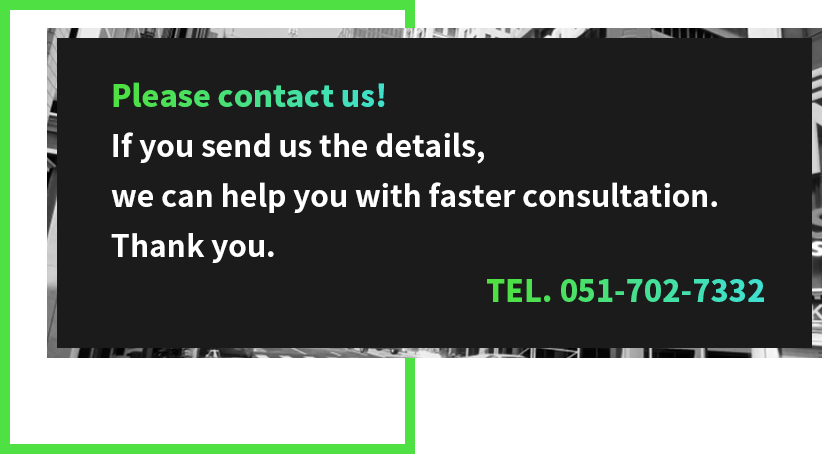
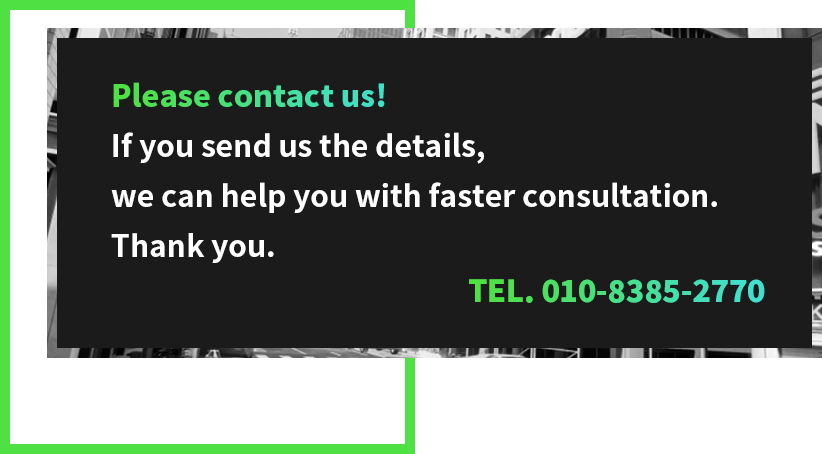
META-VC 2023-07-14 02:51

Changed region(s): [[0.5779, 0.6167, 0.9428, 0.6784]]

diff --git a/sub/sub1/sub1_AboutUs.html b/sub/sub1/sub1_AboutUs.html
@@ -79,21 +79,21 @@
 
     <footer>
         <div class="footer_cont inner">
-            <div class="logo"><a href="../../index.html"><img src="images/logo.png" alt="logo"></a></div>
-            <div class="footer_text">
-                <div>부산광역시 금정구 오륜대로 57 부산가톨릭대학교 C004 메타VC</div>
-                <div class="footer_adress">
-                    <div>TEL 051.702.7332</div>
-                    <div>FAX 051.702.7338</div>
-                    <div>mvc@metavc.kr</div>
-                </div>
+          <div class="logo"><a href="#"><img src="images/logo.png" alt="logo"></a></div>
+          <div class="footer_text">
+            <div>부산광역시 북구 덕천로 194 럭키아파트 7동 301호</div>
+            <div class="footer_adress">
+              <div>TEL｜010.8385.2770</div>
+              <div>KAKAO｜codms0654</div>
+              <div>yeomce2770@gmail.com</div>
             </div>
-            <div class="kakao"><a href="http://pf.kakao.com/_SEvgb" target="_blank"><img src="images/kakao.png"
-                        alt="logo"></a></div>
-            <button><a href="#">Mobile</a></button>
+          </div>
+          <div class="kakao"><a href="http://pf.kakao.com/_pLtzG/chat" target="_blank"><img src="images/kakao.png"
+                alt="logo"></a></div>
+          <button class="mobile-button"><a href="https://yce-meta-vc-mobile.netlify.app/" target="_blank">Mobile</a></button>
         </div>
         <div class="copy_right">Copyright (c) MetaVC CO.LTD All rights reserved.</div>
-    </footer>
+      </footer>
 </body>
 
 </html>

diff --git a/sub/sub2/sub2_Technology.html b/sub/sub2/sub2_Technology.html
@@ -84,21 +84,21 @@
 
     <footer>
         <div class="footer_cont inner">
-            <div class="logo"><a href="../../index.html"><img src="images/logo.png" alt="logo"></a></div>
-            <div class="footer_text">
-                <div>부산광역시 금정구 오륜대로 57 부산가톨릭대학교 C004 메타VC</div>
-                <div class="footer_adress">
-                    <div>TEL 051.702.7332</div>
-                    <div>FAX 051.702.7338</div>
-                    <div>mvc@metavc.kr</div>
-                </div>
+          <div class="logo"><a href="#"><img src="images/logo.png" alt="logo"></a></div>
+          <div class="footer_text">
+            <div>부산광역시 북구 덕천로 194 럭키아파트 7동 301호</div>
+            <div class="footer_adress">
+              <div>TEL｜010.8385.2770</div>
+              <div>KAKAO｜codms0654</div>
+              <div>yeomce2770@gmail.com</div>
             </div>
-            <div class="kakao"><a href="http://pf.kakao.com/_SEvgb" target="_blank"><img src="images/kakao.png"
-                        alt="logo"></a></div>
-            <button><a href="#">Mobile</a></button>
+          </div>
+          <div class="kakao"><a href="http://pf.kakao.com/_pLtzG/chat" target="_blank"><img src="images/kakao.png"
+                alt="logo"></a></div>
+          <button class="mobile-button"><a href="https://yce-meta-vc-mobile.netlify.app/" target="_blank">Mobile</a></button>
         </div>
         <div class="copy_right">Copyright (c) MetaVC CO.LTD All rights reserved.</div>
-    </footer>
+      </footer>
 </body>
 
 </html>

diff --git a/sub/sub3/sub3_Work.html b/sub/sub3/sub3_Work.html
@@ -79,21 +79,21 @@
 
     <footer>
         <div class="footer_cont inner">
-            <div class="logo"><a href="../../index.html"><img src="images/logo.png" alt="logo"></a></div>
-            <div class="footer_text">
-                <div>부산광역시 금정구 오륜대로 57 부산가톨릭대학교 C004 메타VC</div>
-                <div class="footer_adress">
-                    <div>TEL 051.702.7332</div>
-                    <div>FAX 051.702.7338</div>
-                    <div>mvc@metavc.kr</div>
-                </div>
+          <div class="logo"><a href="#"><img src="images/logo.png" alt="logo"></a></div>
+          <div class="footer_text">
+            <div>부산광역시 북구 덕천로 194 럭키아파트 7동 301호</div>
+            <div class="footer_adress">
+              <div>TEL｜010.8385.2770</div>
+              <div>KAKAO｜codms0654</div>
+              <div>yeomce2770@gmail.com</div>
             </div>
-            <div class="kakao"><a href="http://pf.kakao.com/_SEvgb" target="_blank"><img src="images/kakao.png"
-                        alt="logo"></a></div>
-            <button><a href="#">Mobile</a></button>
+          </div>
+          <div class="kakao"><a href="http://pf.kakao.com/_pLtzG/chat" target="_blank"><img src="images/kakao.png"
+                alt="logo"></a></div>
+          <button class="mobile-button"><a href="https://yce-meta-vc-mobile.netlify.app/" target="_blank">Mobile</a></button>
         </div>
         <div class="copy_right">Copyright (c) MetaVC CO.LTD All rights reserved.</div>
-    </footer>
+      </footer>
 </body>
 
 </html>

diff --git a/sub/sub4/sub4_LetsTalk.html b/sub/sub4/sub4_LetsTalk.html
@@ -71,21 +71,21 @@
 
     <footer>
         <div class="footer_cont inner">
-            <div class="logo"><a href="../../index.html"><img src="images/logo.png" alt="logo"></a></div>
-            <div class="footer_text">
-                <div>부산광역시 금정구 오륜대로 57 부산가톨릭대학교 C004 메타VC</div>
-                <div class="footer_adress">
-                    <div>TEL 051.702.7332</div>
-                    <div>FAX 051.702.7338</div>
-                    <div>mvc@metavc.kr</div>
-                </div>
+          <div class="logo"><a href="#"><img src="images/logo.png" alt="logo"></a></div>
+          <div class="footer_text">
+            <div>부산광역시 북구 덕천로 194 럭키아파트 7동 301호</div>
+            <div class="footer_adress">
+              <div>TEL｜010.8385.2770</div>
+              <div>KAKAO｜codms0654</div>
+              <div>yeomce2770@gmail.com</div>
             </div>
-            <div class="kakao"><a href="http://pf.kakao.com/_SEvgb" target="_blank"><img src="images/kakao.png"
-                        alt="logo"></a></div>
-            <button><a href="#">Mobile</a></button>
+          </div>
+          <div class="kakao"><a href="http://pf.kakao.com/_pLtzG/chat" target="_blank"><img src="images/kakao.png"
+                alt="logo"></a></div>
+          <button class="mobile-button"><a href="https://yce-meta-vc-mobile.netlify.app/" target="_blank">Mobile</a></button>
         </div>
         <div class="copy_right">Copyright (c) MetaVC CO.LTD All rights reserved.</div>
-    </footer>
+      </footer>
 </body>
 
 </html>

diff --git a/index.html b/index.html
@@ -181,16 +181,16 @@
     <div class="footer_cont inner">
       <div class="logo"><a href="#"><img src="images/logo.png" alt="logo"></a></div>
       <div class="footer_text">
-        <div>부산광역시 금정구 오륜대로 57 부산가톨릭대학교 C004 메타VC</div>
+        <div>부산광역시 북구 덕천로 194 럭키아파트 7동 301호</div>
         <div class="footer_adress">
-          <div>TEL 051.702.7332</div>
-          <div>FAX 051.702.7338</div>
-          <div>mvc@metavc.kr</div>
+          <div>TEL｜010.8385.2770</div>
+          <div>KAKAO｜codms0654</div>
+          <div>yeomce2770@gmail.com</div>
         </div>
       </div>
-      <div class="kakao"><a href="http://pf.kakao.com/_SEvgb" target="_blank"><img src="images/kakao.png"
+      <div class="kakao"><a href="http://pf.kakao.com/_pLtzG/chat" target="_blank"><img src="images/kakao.png"
             alt="logo"></a></div>
-      <button><a href="../m/index.php?m_mobile=mobile">Mobile</a></button>
+      <button class="mobile-button"><a href="https://yce-meta-vc-mobile.netlify.app/" target="_blank">Mobile</a></button>
     </div>
     <div class="copy_right">Copyright (c) MetaVC CO.LTD All rights reserved.</div>
   </footer>

diff --git a/css/style_public.css b/css/style_public.css
@@ -192,13 +192,13 @@ footer .kakao a img{
 
 
 footer button {
-  display: black;
+  display: block;
   width: 8%;
+  height: 30px;
   font-size: 12px;
   background: #fff;
   border: none;
   border-radius: 20px;
-  padding: 10px;
   outline: none;
   margin: 0 2%!important;
   cursor: pointer;
